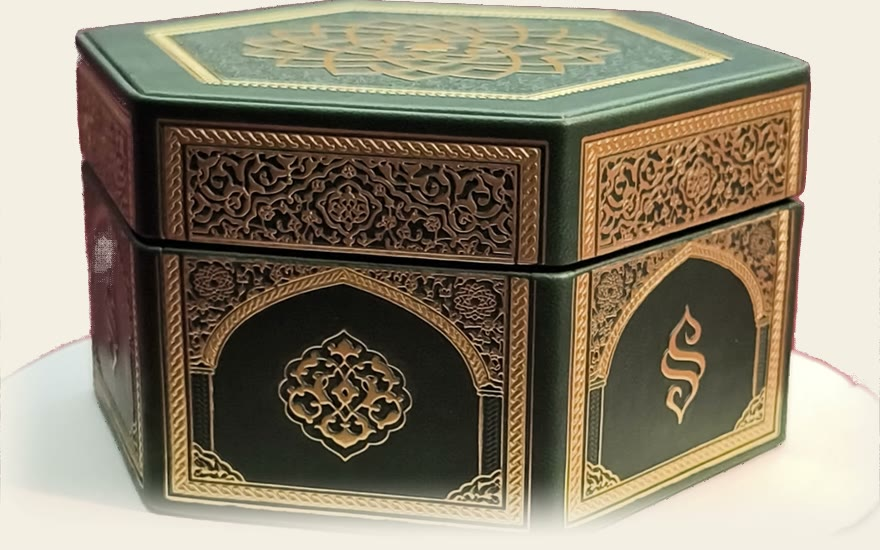
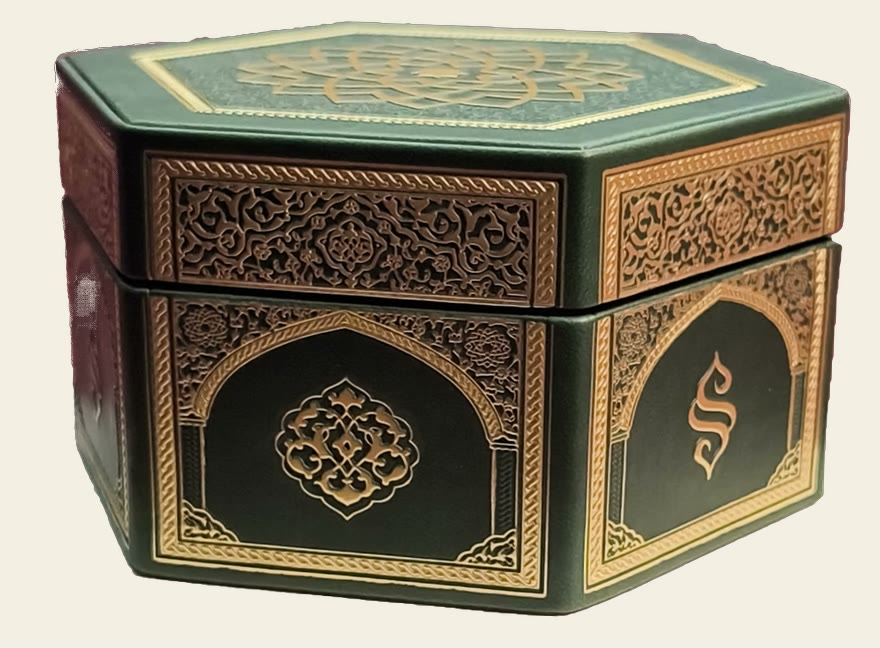
Altigen kutu v3: kullanicinin rotobrush alfa maskesi (Comp 3) + renk ayristirici kesisimi — kutu kadraji dolduruyor, vinyet gereksiz; 880x648, onbellek v2

diff --git a/ar/bespoke.html b/ar/bespoke.html
@@ -132,10 +132,10 @@
         <p>صندوق تقديم سداسي الأوجه من جلد العجل الأخضر الداكن: عقود مذهّبة بالرقاقة الساخنة على كل وجه، وشمسة شعاعية على الغطاء، ومونوغرام العميل بالذهب في الواجهة. تجري الزخرفة بمحاذاة تامّة حول الزوايا الست.</p>
       </div>
       <div class="hexbox-stage reveal">
-        <video class="hexbox-video" autoplay muted loop playsinline preload="metadata" poster="../assets/img/hexbox-poster.jpg" width="880" height="550" aria-label="صندوق جلدي سداسي يدور حول محوره">
-          <source src="../assets/video/hexbox-loop.mp4" type="video/mp4">
-          <source src="../assets/video/hexbox-loop.webm" type="video/webm">
-          <img src="../assets/img/hexbox-poster.jpg" alt="صندوق تقديم جلدي سداسي" width="880" height="550">
+        <video class="hexbox-video" autoplay muted loop playsinline preload="metadata" poster="../assets/img/hexbox-poster.jpg?v=2" width="880" height="648" aria-label="صندوق جلدي سداسي يدور حول محوره">
+          <source src="../assets/video/hexbox-loop.mp4?v=2" type="video/mp4">
+          <source src="../assets/video/hexbox-loop.webm?v=2" type="video/webm">
+          <img src="../assets/img/hexbox-poster.jpg?v=2" alt="صندوق تقديم جلدي سداسي" width="880" height="648">
         </video>
       </div>
     </div>

diff --git a/bespoke.html b/bespoke.html
@@ -132,10 +132,10 @@
         <p>A six-sided presentation box in deep green calf: hot-foiled arch panels on every face, a radial shamsa on the lid and the client's monogram in gold. The pattern stays in register around all six corners.</p>
       </div>
       <div class="hexbox-stage reveal">
-        <video class="hexbox-video" autoplay muted loop playsinline preload="metadata" poster="assets/img/hexbox-poster.jpg" width="880" height="550" aria-label="Hexagonal leather presentation box rotating on its axis">
-          <source src="assets/video/hexbox-loop.mp4" type="video/mp4">
-          <source src="assets/video/hexbox-loop.webm" type="video/webm">
-          <img src="assets/img/hexbox-poster.jpg" alt="Hexagonal leather presentation box" width="880" height="550">
+        <video class="hexbox-video" autoplay muted loop playsinline preload="metadata" poster="assets/img/hexbox-poster.jpg?v=2" width="880" height="648" aria-label="Hexagonal leather presentation box rotating on its axis">
+          <source src="assets/video/hexbox-loop.mp4?v=2" type="video/mp4">
+          <source src="assets/video/hexbox-loop.webm?v=2" type="video/webm">
+          <img src="assets/img/hexbox-poster.jpg?v=2" alt="Hexagonal leather presentation box" width="880" height="648">
         </video>
       </div>
     </div>

diff --git a/tr/bespoke.html b/tr/bespoke.html
@@ -131,10 +131,10 @@
         <p>Koyu yeşil dana derisi üzerine altı yüzlü bir takdim kutusu: her yüzeyde sıcak yaldız kemer panoları, kapakta ışınsal şemse, önde altın varak monogram. Desen, altı köşenin tamamında şaşmadan hizalı akar.</p>
       </div>
       <div class="hexbox-stage reveal">
-        <video class="hexbox-video" autoplay muted="" loop="" playsinline="" preload="metadata" poster="../assets/img/hexbox-poster.jpg" width="880" height="550" aria-label="Altıgen deri takdim kutusu kendi ekseninde dönüyor">
-          <source src="../assets/video/hexbox-loop.mp4" type="video/mp4">
-          <source src="../assets/video/hexbox-loop.webm" type="video/webm">
-          <img src="../assets/img/hexbox-poster.jpg" alt="Altıgen deri takdim kutusu" width="880" height="550">
+        <video class="hexbox-video" autoplay muted="" loop="" playsinline="" preload="metadata" poster="../assets/img/hexbox-poster.jpg?v=2" width="880" height="648" aria-label="Altıgen deri takdim kutusu kendi ekseninde dönüyor">
+          <source src="../assets/video/hexbox-loop.mp4?v=2" type="video/mp4">
+          <source src="../assets/video/hexbox-loop.webm?v=2" type="video/webm">
+          <img src="../assets/img/hexbox-poster.jpg?v=2" alt="Altıgen deri takdim kutusu" width="880" height="648">
         </video>
       </div>
     </div>